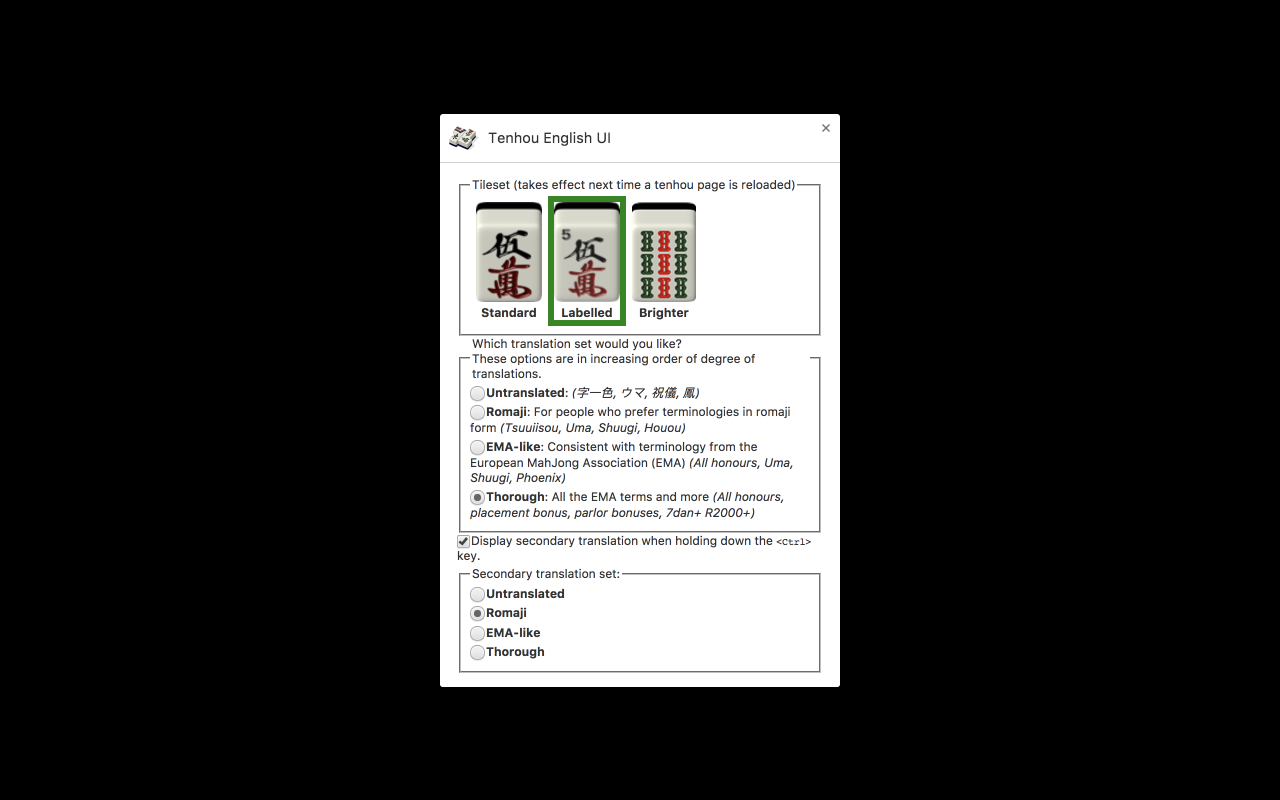
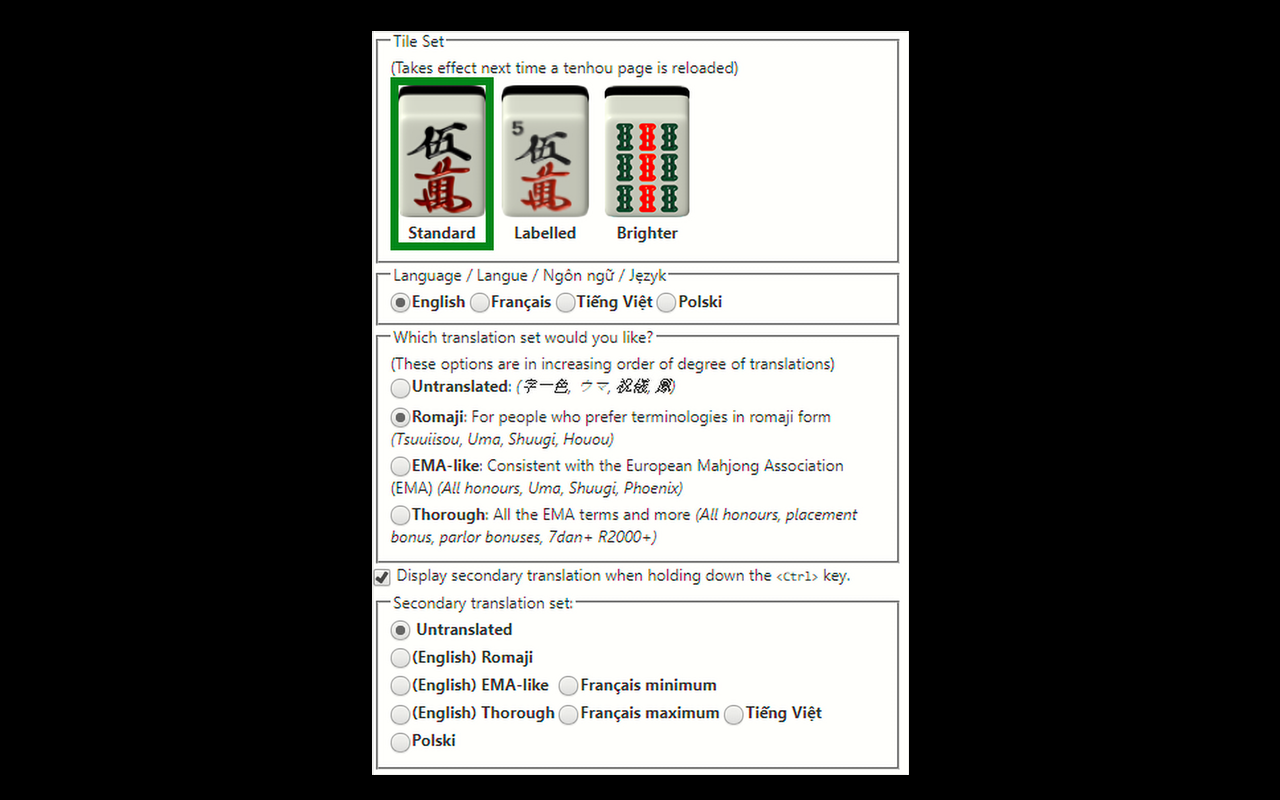
adding structure for polish; updating menu screenshots

Changed region(s): [[0.2812, 0.0312, 0.7188, 0.9688]]

diff --git a/package/options.html b/package/options.html
@@ -8,14 +8,20 @@
 <body>
     <form name='optionform' id='optionform'>
         <fieldset id="tileset">
-            <legend><span class="i18n_en">Tile Set</span><span class="i18n_fr">Ensemble de tuiles</span><span class="i18n_vi">Quân bài</span></legend>
+            <legend>
+                <span class="i18n_en">Tile Set</span>
+                <span class="i18n_fr">Ensemble de tuiles</span>
+                <span class="i18n_vi">Quân bài</span>
+                <span class="i18n_pl">Zestaw kamieni</span>
+            </legend>
             <span class="i18n_en">(Takes effect next time a tenhou page is reloaded)<br></span>
             <span class="i18n_fr">(Prend effet après l'actualisation d'une page Tenhou)<br></span>
-            <span class="i18n_fr">(Chỉ có tác dụng sau khi thoát ra vào lại Tenhou)<br></span>
+            <span class="i18n_vi">(Chỉ có tác dụng sau khi thoát ra vào lại Tenhou)<br></span>
+            <span class="i18n_pl">(Zmiana zostanie wprowadzona po odświeżeniu Tenhou)<br></span>
         </fieldset>
 
         <fieldset id='languageSelecter'>
-            <legend>Language / Langue / Ngôn ngữ</legend>
+            <legend>Language / Langue / Ngôn ngữ / Język</legend>
             <label>
                 <input type="radio" name="language" value="en" checked="checked"><strong>English</strong>
             </label>
@@ -24,6 +30,9 @@
             </label>
             <label>
                 <input type="radio" name="language" value="vi"><strong>Tiếng Việt</strong>
+            </label>
+            <label>
+                <input type="radio" name="language" value="pl"><strong>Polski</strong>
             </label>
         </fieldset>
 
@@ -75,18 +84,40 @@
             </label>
         </fieldset>
 
+        <fieldset class="i18n_pl">
+            <legend>Które tłumaczenie wybrać?</legend>
+            <label>
+                <input type="radio" name="translation" value="off"><strong>Nieprzetłumaczone</strong>: <i>(字一色, ウマ, 祝儀, 鳳)</i>
+            </label>
+            <label>
+                <input type="radio" name="translation" value="DEFAULT,PL"><strong>Polski</strong><i></i>
+            </label>
+        </fieldset>
+
         <label>
             <input type="checkbox" name="useToggler" id="useToggler" value="on">
             <span class='i18n_en'>Display secondary translation when holding down the <kbd>&lt;Ctrl&gt;</kbd> key.</span>
             <span class='i18n_fr'>Montrer la traduction secondaire en survolant un terme et appuyant <kbd>&lt;Ctrl&gt;</kbd></span>
             <span class='i18n_vi'>Chuyển qua chế độ dịch phụ khi nhấn phím <kbd>&lt;Ctrl&gt;</kbd></span>
+            <span class='i18n_pl'>Wyświetl drugorzędne tłumaczenie po przytrzymaniu klawisza <kbd>&lt;Ctrl&gt;</kbd></span>
         </label>
 
         <fieldset id='toggleToSet'>
-            <legend><span class='i18n_en'>Secondary translation set:</span><span class='i18n_fr'>Traduction secondaire</span><span class='i18n_vi'>Chế độ dịch phụ</span></legend>
+            <legend>
+                <span class='i18n_en'>Secondary translation set:</span>
+                <span class='i18n_fr'>Traduction secondaire</span>
+                <span class='i18n_vi'>Chế độ dịch phụ</span>
+                <span class='i18n_pl'>Drugorzędne tłumaczenie:</span>
+            </legend>
             <div class='languageBlock'>
                 <label>
-                    <input type="radio" name="toggleTo" value="off" checked="checked"><strong>Untranslated / Pas traduit</strong>
+                    <input type="radio" name="toggleTo" value="off" checked="checked">
+                    <strong>
+                        <span class='i18n_en'>Untranslated</span>
+                        <span class='i18n_fr'>Pas traduit</span>
+                        <span class='i18n_vi'>Không dịch</span>
+                        <span class='i18n_pl'>Nieprzetłumaczone</span>
+                    </strong>
                 </label>
                 <label>
                     <input type="radio" name="toggleTo" value="DEFAULT"><strong>(English) Romaji</strong>
@@ -109,6 +140,11 @@
             <div class='languageBlock'>
                 <label>
                     <input type="radio" name="toggleTo" value="DEFAULT,VIE"><strong>Tiếng Việt</strong>
+                </label>
+            </div>
+            <div class='languageBlock'>
+                <label>
+                    <input type="radio" name="toggleTo" value="DEFAULT,PL"><strong>Polski</strong>
                 </label>
             </div>
         </fieldset>

diff --git a/package/options.js b/package/options.js
@@ -1,22 +1,25 @@
 document.addEventListener('DOMContentLoaded', (ignored) => {
 
-    const languages = ['en', 'fr', 'vi'];
+    const languages = ['en', 'fr', 'vi', 'pl'];
     let thisForm = document.forms.optionform;
     const sprites = {
         'DEFAULT': {
             'short_en': 'Standard',
             'short_fr': 'Standard',
             'short_vi': 'Mặc định',
+            'short_pl': 'Standardowe',
         },
         'english': {
             'short_en': 'Labelled',
             'short_fr': 'indices',
             'short_vi': 'Thêm số',
+            'short_pl': 'Z oznaczeniami',
         },
         'bright':  {
             'short_en': 'Brighter',
             'short_fr': 'Plus clairs',
             'short_vi': 'Sáng',
+            'short_pl': 'Rozjaśnione',
         },
     };
 
@@ -100,7 +103,8 @@
         altTranslation: 'off',
         toggle: false,
     }, function(items) {
-        thisForm.language.value = (items.language.substr(0,2) === 'fr') ? 'fr' : ((items.language.substr(0,2) === 'vi') ? 'vi' : 'en');
+        let lng = items.language.substr(0,2);
+        thisForm.language.value = ['fr','vi','pl'].includes(lng) ? lng : 'en';
         thisForm.tileset.value = items.tileset;
         thisForm.translation.value = items.translation;
         thisForm.useToggler.checked = items.toggle;
@@ -108,6 +112,7 @@
         toggleLanguage();
         toggleAltDisplay();
         updateWithNewOptions(items);
+        saveOptions();
     });
 
 
